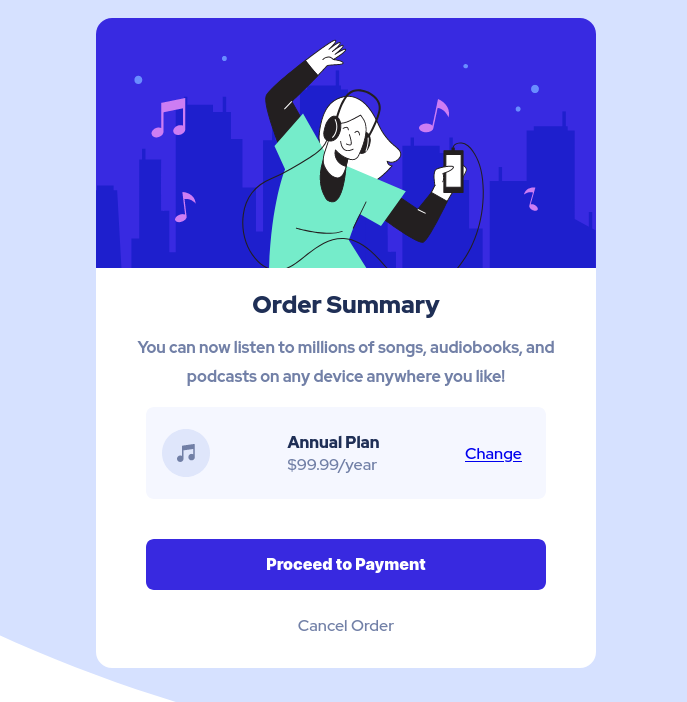
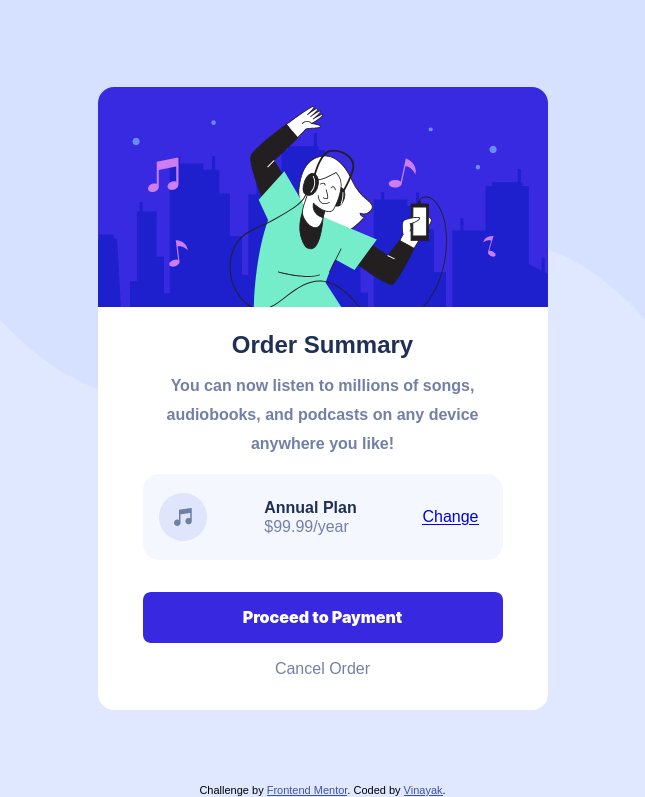
Removed redundant css properties.
mobile font 14px .
desktop font 16px

diff --git a/styles.css b/styles.css
@@ -14,31 +14,27 @@
 
 html{
     font-family: 'Red Hat Display', sans-serif;
-    font-size: 16PX;
+    font-size: 14PX;
     font-weight: 500;
 }
 
 body {
-    
-    background-image: url(/images/pattern-background-mobile.svg);
-    background-size: cover;
     min-height: 100vh;
     display: flex;
-    flex-direction: column;
-    justify-content:center;
+    justify-content: center;
     align-items: center;
+    background-image: url(./images/pattern-background-mobile.svg);
+    background-color: var(--primary-pale-blue);
+    background-size: 100% 50%;
+    background-repeat: no-repeat; 
 }
 
 .container{ 
-    
-    width: 90vw;
-    max-width:500px;
     background-color: white;
+    width: 90vw;
+    max-width:450px;
+    margin: 0 auto;
     border-radius: 1em;
-    display: flex;
-    flex-direction: column;
-    justify-content: center;
-    align-items: center;    
 }
 
 
@@ -51,24 +47,24 @@ body {
 /* =====Oredr-summary section===== */
 
 .order-summary{
+    margin-top: 0.5em; 
     text-align:center;
-    margin-top: 0.5em;   
+      
 }
 
-.order-summary .heading{
+.order-summary .heading{ 
+    padding:0.5em 0;
     font-size: 1.5rem;
     font-weight: 900;
-    padding:0.5em 0;
     color: var(--neutral-dark-blue);
 }
 
 
 .order-summary .description{
+    padding:0 2.5em;
     font-weight: 700;
     line-height: 1.8rem;
-    padding:0 2.5em;
     color: var(--neutral-des-blue);
-  
 }
 
 
@@ -78,12 +74,11 @@ body {
     display: flex;
     justify-content: space-between;
     align-items: center;
+    background-color: var(--neutral-pale-blue);
     width: 80%;
     margin:1em auto;
     padding:1em 1em;
-    border-radius: 0.5em;
-    background-color: var(--neutral-pale-blue);
-    
+    border-radius: 1em;
 }
 
 .plan .plan-change-link{
@@ -91,45 +86,35 @@ body {
     transition: 0.2s color, 0.5s font-size;
 }
 
-
 .plan .plan-change-link:hover{
+    font-size:1.1em;
     text-decoration: none;
-    color:var(--neutral-des-blue);
-    font-size:1.1em
-    
+    color:var(--neutral-des-blue); 
 }
-
 
 .plan .plan-heading{
-    font-weight: 900;
     padding:0.5em;
-    color: var(--neutral-dark-blue);
-    
+    font-weight: 900;
+    color: var(--neutral-dark-blue);  
 }
-
 
 .plan .plan-pricing{
     font-weight: 500;
-color: var(--neutral-des-blue);
+    color: var(--neutral-des-blue);
     
 }
 
 .btn-group{
-    display: flex;
-    flex-direction: column;
-    justify-content: center;
-    align-items:center;
     width: 80%; 
-    margin: 1em 0;
+    margin: 2em auto;
     text-align: center;
 }
 
-
 button{
-    border:none;
-    cursor: pointer;  
     background: none;
     margin: 0;
+    border:none;
+    cursor: pointer; 
     color:black ;
     
 }
@@ -137,29 +122,31 @@ button{
 .btn-group button{
    
     display: block;
+    background-color: var(--primary-bright-blue);
+    
     width: 100%;
     padding: 1em 0;
-    margin: 0.5em 0;
+    margin-bottom: 1em;
     border-radius: 0.5em;
-    color:white;
+
     font-size: 1rem;
     font-weight: 900;
     color:white;
-    background-color: var(--primary-bright-blue);
+    
     transition: 0.3s font-size ease-in,0.3s background-color ease-in-out, 0.3s box-shadow ease-in-out;
 
 }
 
 .btn-group button:hover{
-    font-size:1.1em;
     background-color:hsl(223, 87%, 64%);
+    font-size:1.1em;
     box-shadow: 0 5px 5px 0px rgb(114, 176, 247); 
 }
 
 .btn-group a{
     padding: 1em;
-    text-decoration: none;
     color: var(--neutral-des-blue);
+    text-decoration: none;
     transition: 0.3s font-size ease-in,0.3s color ease-in-out;
     
 }
@@ -173,6 +160,7 @@ footer{
     position: absolute;
     bottom: 0;
     z-index: -1;
+    text-align: center;
 } 
 .attribution {
     font-size: 11px;
@@ -183,10 +171,15 @@ footer{
     color: hsl(228, 45%, 44%);
 } 
 
-@media screen and (min-width:375px) {
+@media screen and (min-width:475px) {
+
+    html{
+        
+        font-size: 16PX;
+    }
+
     body{
-        background-image:url(/images/pattern-background-desktop.svg) ;
-        background-size: cover;
+        background-image:url(./images/pattern-background-desktop.svg) ;
     }
     
 } 

diff --git a/index.html b/index.html
@@ -43,19 +43,12 @@
                 </div>
             
             
-        </main>
+            </main>
         <footer>
             <div class="attribution">
                 Challenge by <a href="https://www.frontendmentor.io?ref=challenge" target="_blank">Frontend Mentor</a>. Coded by <a href="#">Vinayak</a>.
             </div>
-        </footer>
-
-
-
-
-
-
-    
+        </footer>   
 </body>
 
 </html>

diff --git a/README.md b/README.md
@@ -32,7 +32,7 @@ Users should be able to:
 
 ### Links
 
-- Solution URL: [Github repo](https://github.com/VinayakDhamnekar/FrontEndMentot-OrderSummary)
+- Solution URL: [gtihub repo](https://github.com/VinayakDhamnekar/FrontEndMentot-OrderSummary)
 - Live Site URL: [Vercel](https://fm-ordersummary.vercel.app/)
 
 ## My process
@@ -46,10 +46,8 @@ Users should be able to:
 ### What I learned
 
 - Use css flexbox
-- Overide default button style:
-
-```
-button{
+-Overide default button style:
+```button{
     border:none;
     cursor: pointer;  
     background: none;
@@ -57,7 +55,6 @@ button{
     color:black ;
     
 }
-```
 use CSS variables:
 ```
 :root {
